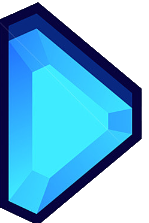
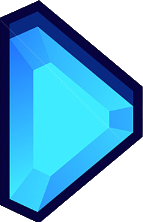
fikset bildene og pilene

diff --git a/Reactgame/src/slideGame/slideGameJS.jsx b/Reactgame/src/slideGame/slideGameJS.jsx
@@ -6,15 +6,14 @@ import blueLeft from '../assets/blue_left.png';
 import blueRight from '../assets/blue_right.png';
 import yellowLeft from '../assets/yellow_left.png';
 import yellowRight from '../assets/yellow_right.png';
-import whiteLeft from '../assets/white_left.png';
-import whiteRight from '../assets/white_right.png';
+import greenLeft from '../assets/green_left.png';
+import greenRight from '../assets/green_right.png';
 
 //image array
 import image1 from '../assets/tigern.jpg'
 import image2 from '../assets/soppen.jpg'
 
 //TODO: put images in different folders in assets
-//TODO: bildene er ikke centrert
 
 import './slideGame.css';
 
@@ -24,9 +23,6 @@ const cards = [
   { src: image2 },
 
 ];
-
-
-//TODO: Skjekk chatGPT i forhold til useState og update site. Alt fungerer, men ikke oppdatere siden. 
 
 
 function SlideGameHandling() {
@@ -91,16 +87,16 @@ function SlideGameHandling() {
       <div>
        <img 
           onClick={() => switchImage('left', bottomIndex, 'bottom')} 
-          className="arrow" src={whiteLeft} 
-          alt="whiteLeft" />
+          className="arrow" src={greenLeft} 
+          alt="greenLeft" />
           <img 
               className="gameImg bottom"
               src={cards[bottomIndex].src} 
               alt="bottom" />
         <img 
             onClick={() => switchImage('right', bottomIndex, 'bottom')} 
-            className="arrow" src={whiteRight} 
-            alt="whiteRight" />
+            className="arrow" src={greenRight} 
+            alt="greenRight" />
       </div>
     </div>
     </>

diff --git a/Reactgame/src/slideGame/slideGame.css b/Reactgame/src/slideGame/slideGame.css
@@ -13,6 +13,7 @@
 .slideGameBox div{
     display: flex;
     align-items: center;
+    justify-content: space-between;
 }
 
 .gameImg{
